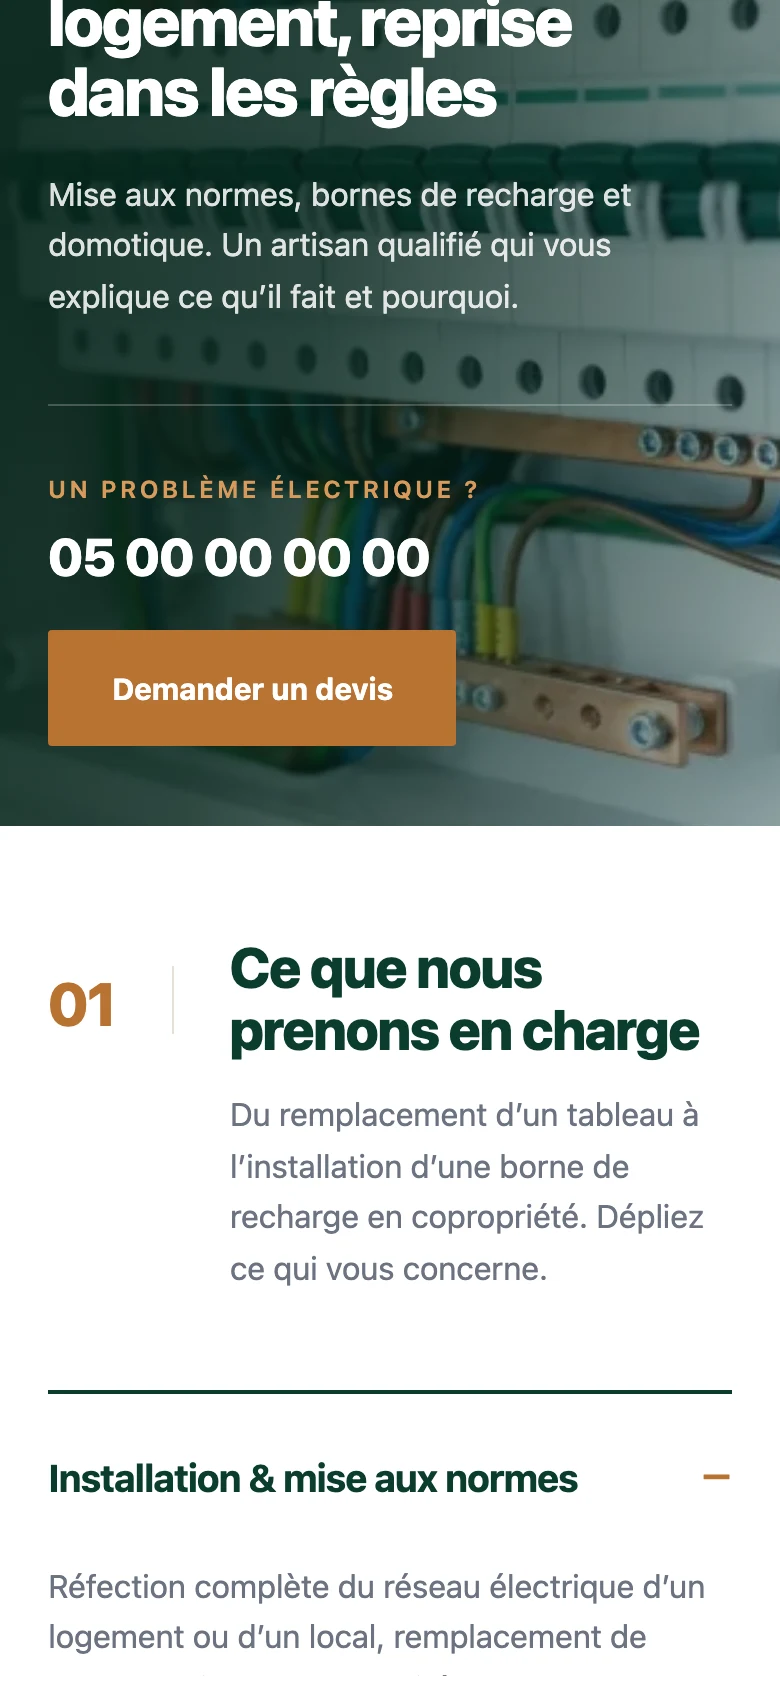
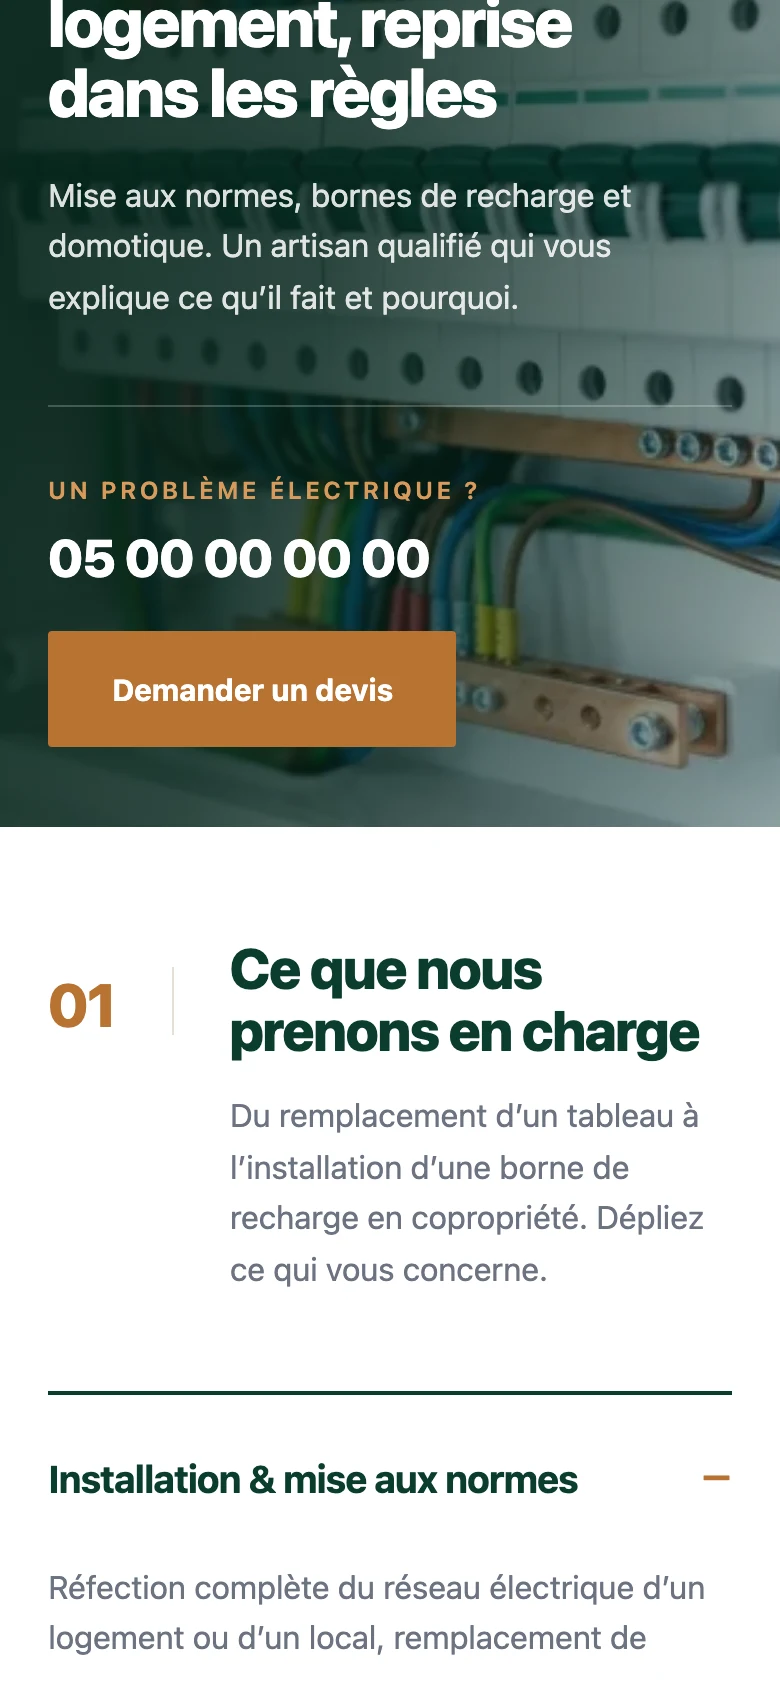
refactor: regroupe le bandeau des démos et unifie la modale sur mon identité
Le bandeau plaçait le retour à un bout et la mention au centre : sur un
écran de portable, l'œil devait faire deux arrêts pour le lire. Les deux
forment désormais un seul groupe centré, retour d'abord — c'est la sortie
de la démo, et il vient donc en premier au clavier comme à l'écran. Le
lien devient un bouton bordé : souligné sur fond sombre, il passait
inaperçu.

La modale de soumission avait une déclinaison par démo. Or ce n'est pas
l'entreprise fictive qui s'exprime là, c'est moi : elle porte maintenant
mon identité, la même partout — filet et bouton jaunes, marine, Archivo
en titrage. Les variables --modale-* disparaissent des feuilles de démo,
et DemoLayout importe tokens.css, qui ne déclare que des variables et
n'impose donc rien au style des démos.

diff --git a/src/styles/demos/couvreur.css b/src/styles/demos/couvreur.css
@@ -27,19 +27,6 @@
   padding: 0;
 }
 
-/* La modale du gabarit emprunte l'identité de la démo. */
-.demo-modale {
-  --modale-accent: #9b3a12;
-  --modale-sur-accent: #fff;
-  --modale-encre: #3a4046;
-  --modale-rayon: 0;
-}
-
-.demo-modale h2 {
-  font-family: 'Georgia', 'Times New Roman', serif;
-  font-weight: 400;
-}
-
 .dm-couvreur img {
   display: block;
   max-width: 100%;

diff --git a/src/styles/demos/electricien.css b/src/styles/demos/electricien.css
@@ -34,14 +34,6 @@
   padding: 0;
 }
 
-/* La modale du gabarit emprunte l'identité de la démo. */
-.demo-modale {
-  --modale-accent: #b87333;
-  --modale-sur-accent: #fff;
-  --modale-encre: #0b3d2e;
-  --modale-rayon: 2px;
-}
-
 .dm-elec img {
   display: block;
   max-width: 100%;
